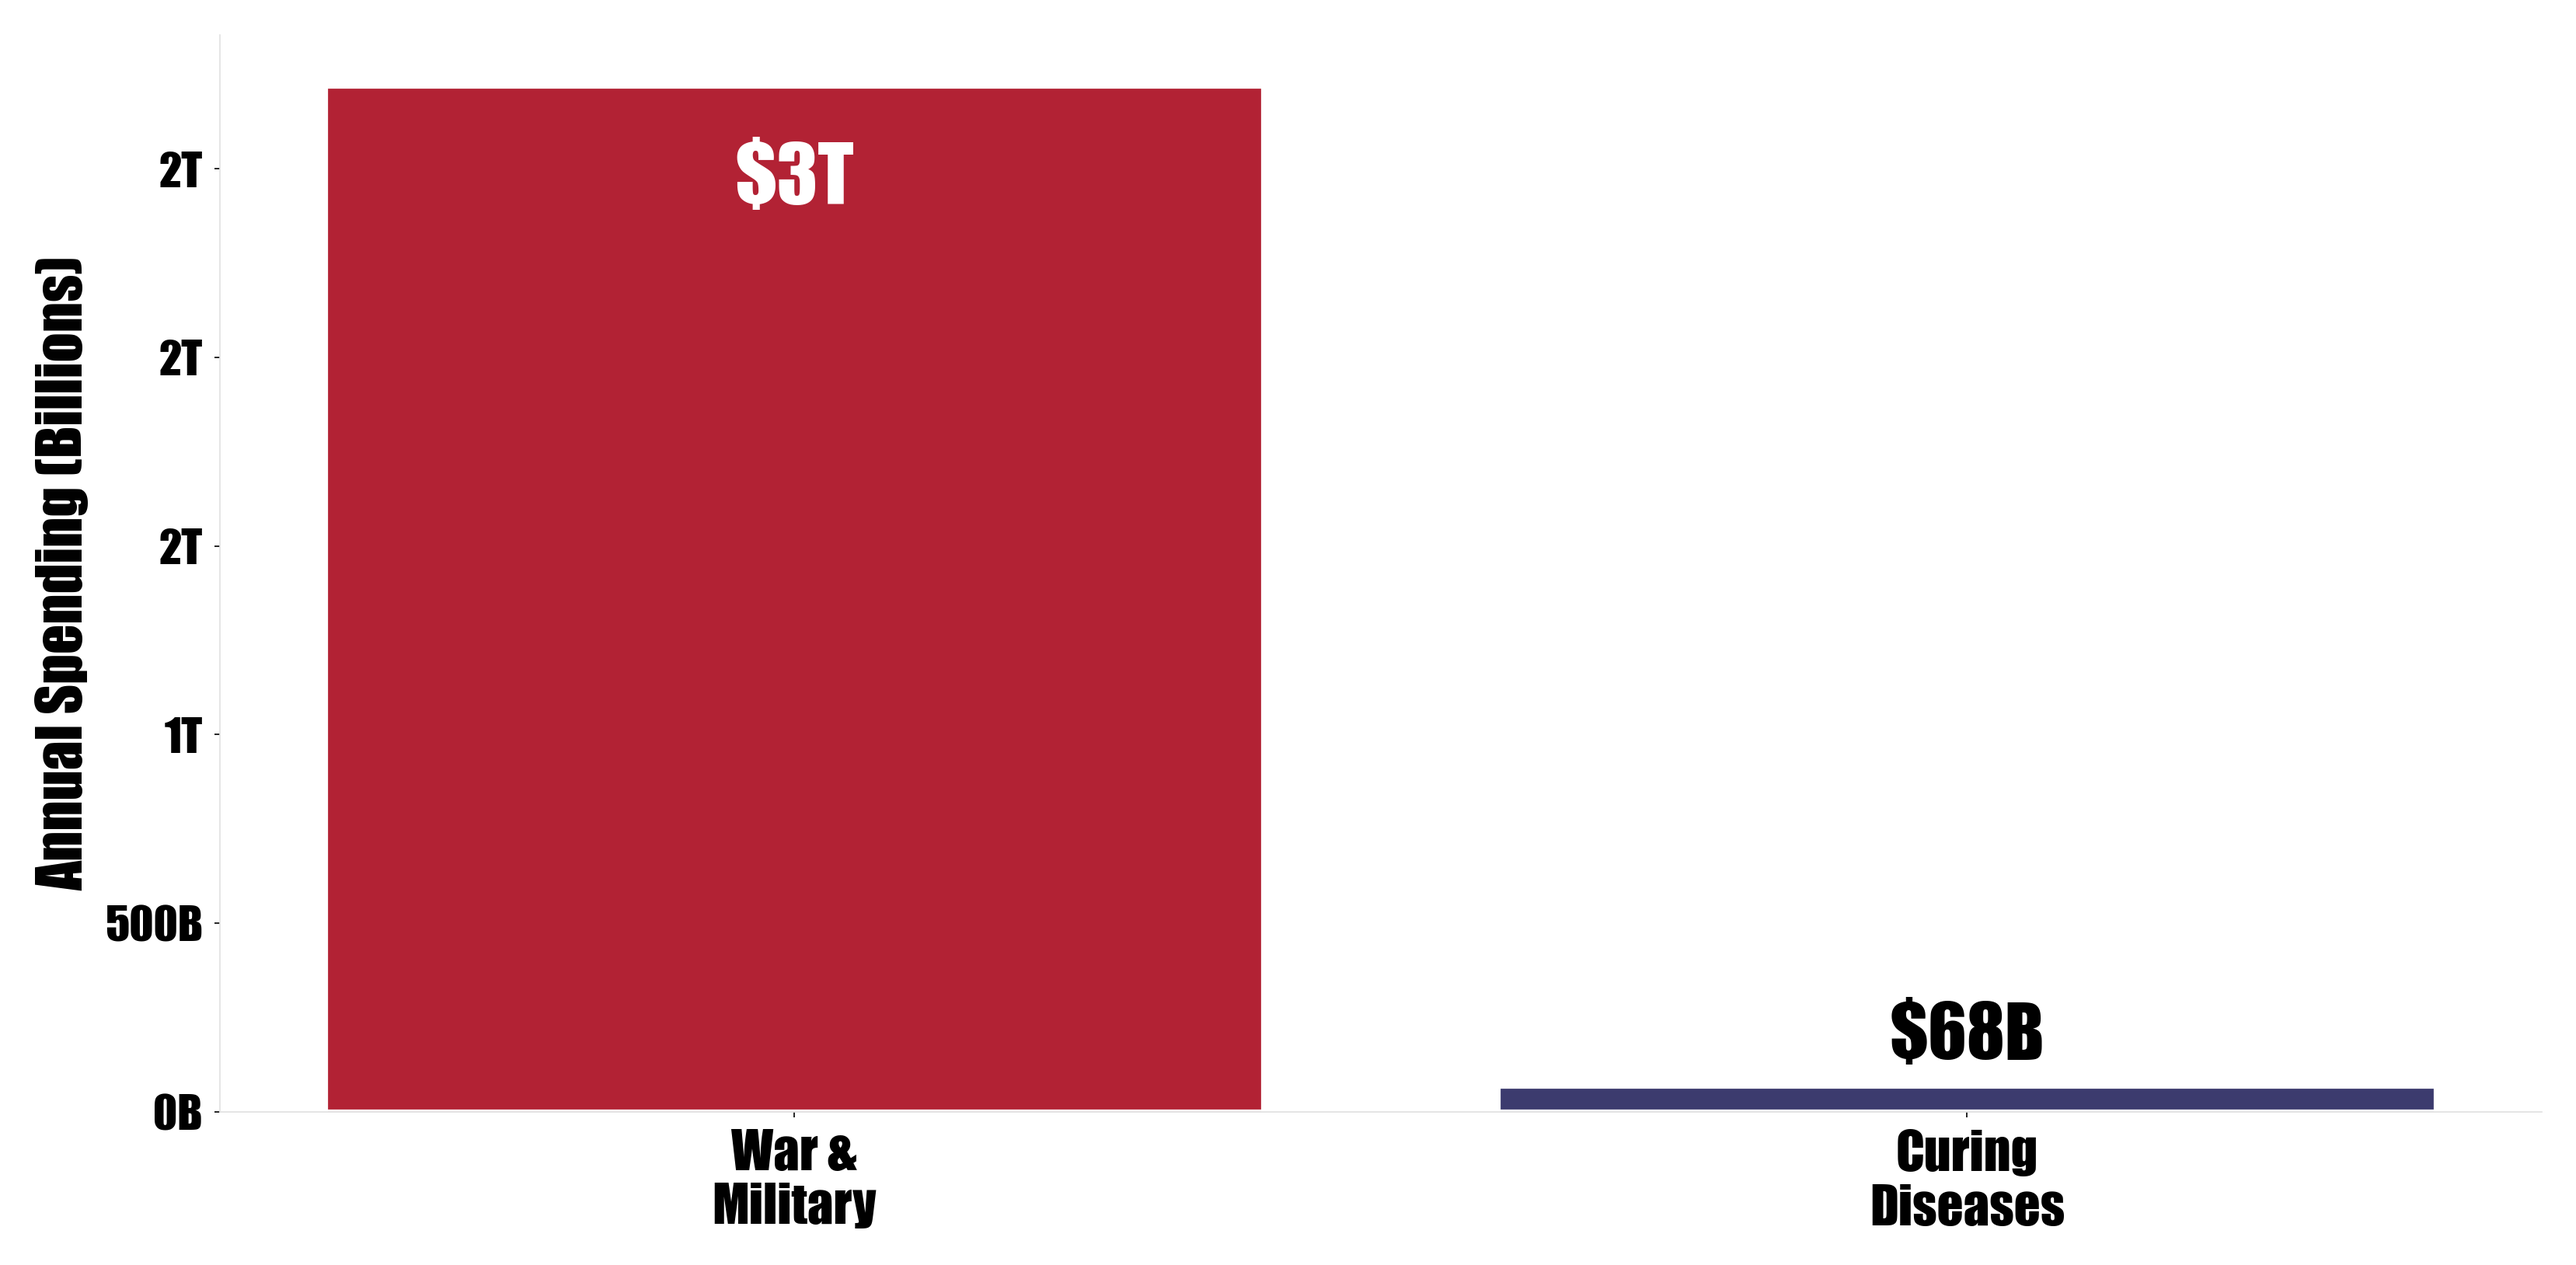
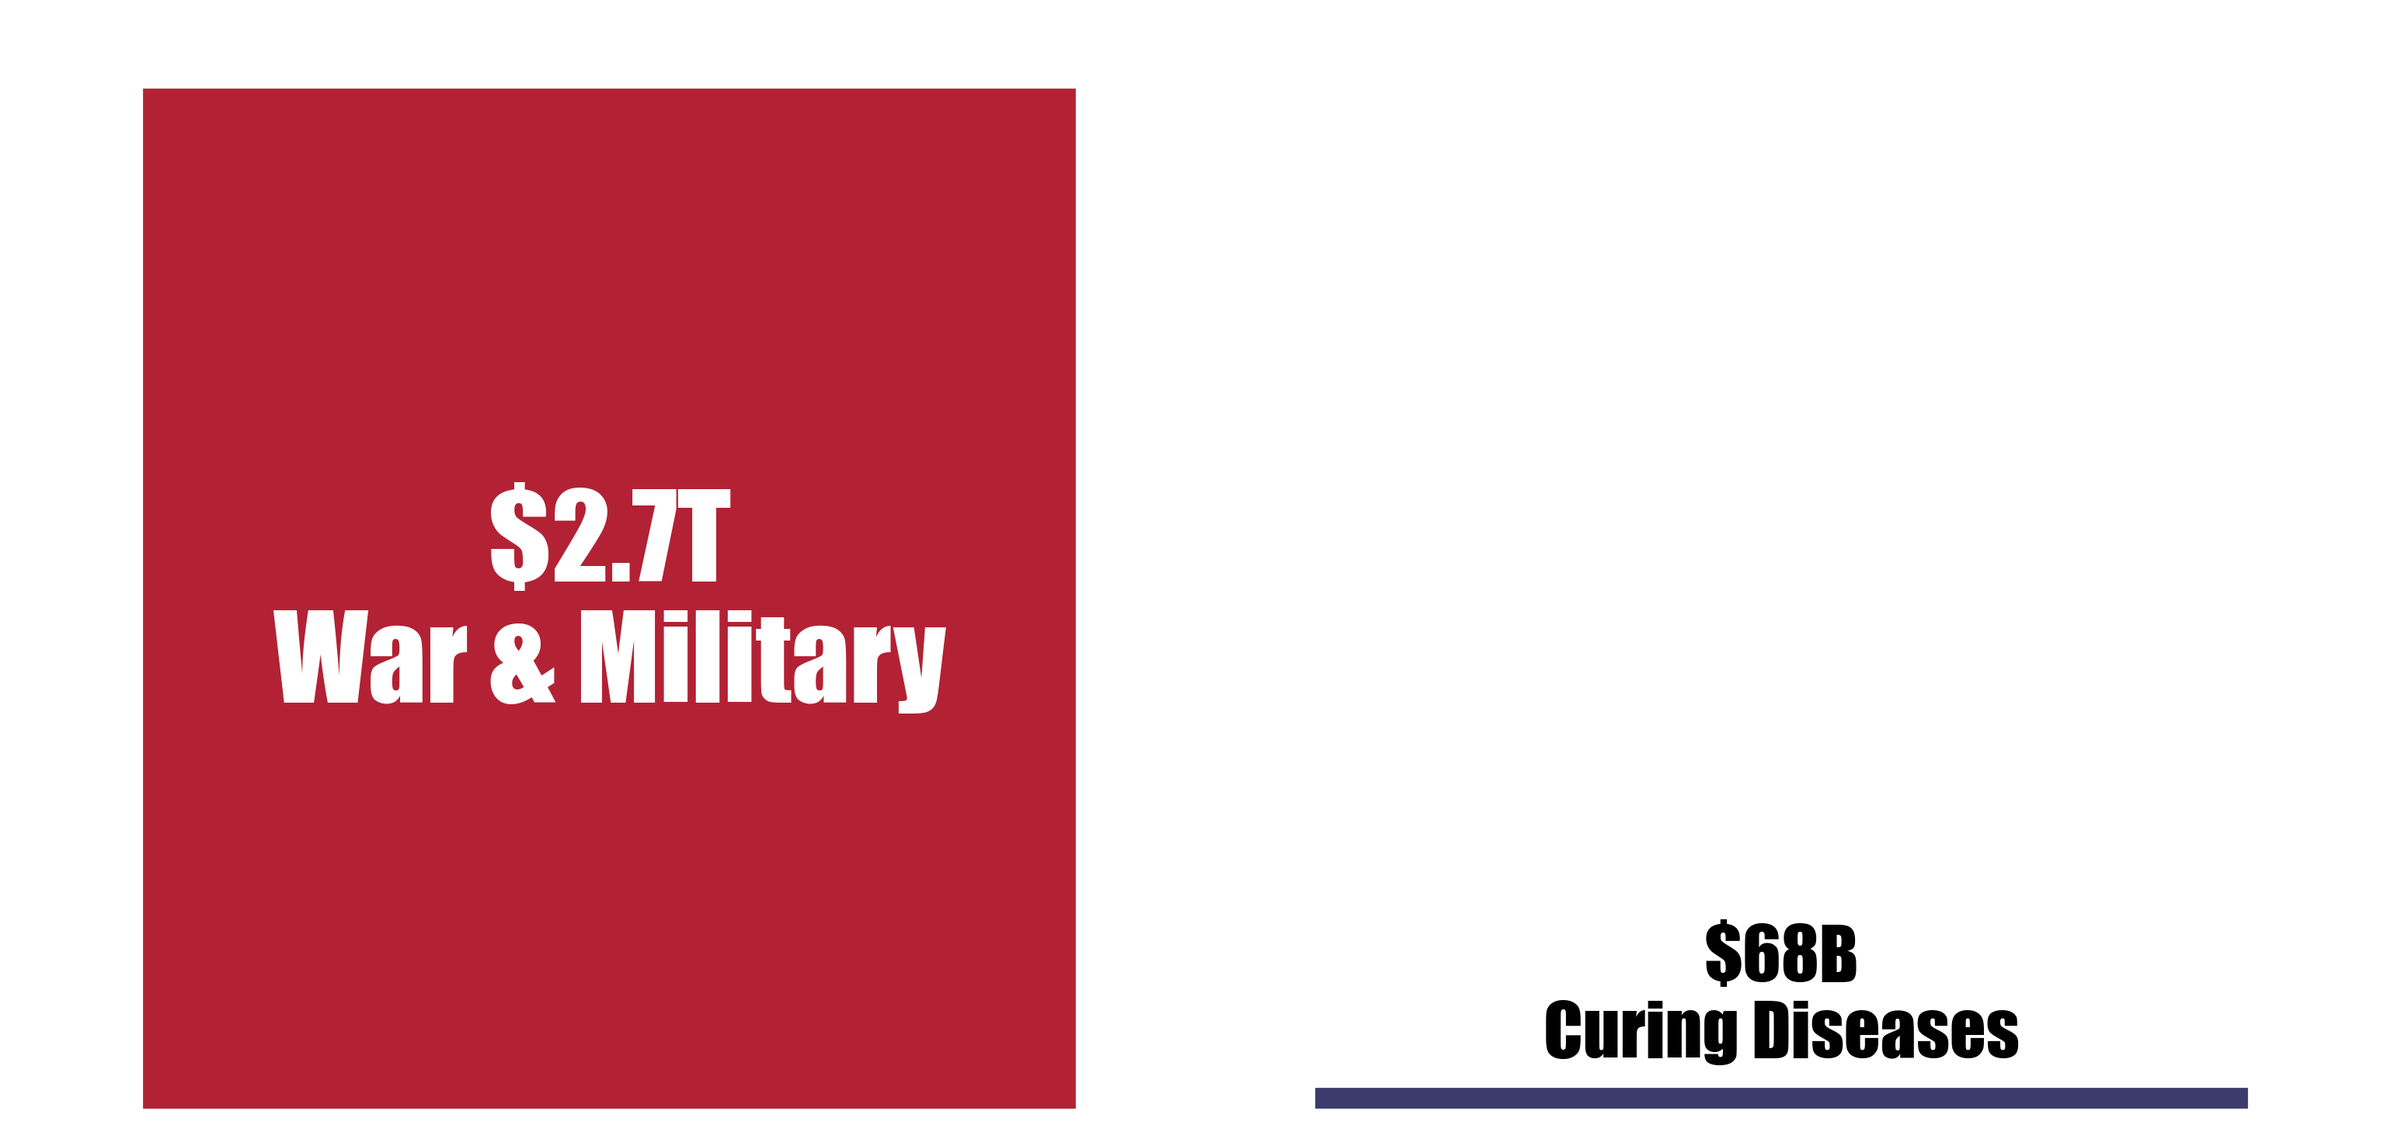
Refactor war-hidden-direct-curing-diseases chart for minimalist design
- Removed all axis labels and ticks to enhance clarity, as all columns are labeled with amounts.
- Cleaned up spines by removing all borders for a more streamlined appearance.
- Set y-axis limits to ensure full visibility of data representation, aligning with minimalist design principles.

Changed region(s): [[0.0, 0.0623, 0.499, 0.9661], [0.5302, 0.7791, 0.9669, 0.9661]]

diff --git a/DESIGN_GUIDE.md b/DESIGN_GUIDE.md
@@ -147,9 +147,18 @@ These margins are automatically set by `setup_chart_style()` but can be adjusted
 **Label Placement (Tufte-approved):**
 - Put labels directly ON the data (on bars, lines, points)
 - Format: `"$7T\nIndirect War Costs"` (value + description with line break)
+- **Large bars:** Label inside (white text on colored bars)
+- **Small bars:** Label above (black text, positioned just above the bar)
 - Remove redundant x-axis labels when data is self-labeled
 - Remove y-axis entirely on column charts when all columns show their amounts
 - This eliminates matching numbers to separate axis labels
+
+**Typography Size (Neobrutalist approach):**
+- **Make text as large as reasonably possible** - Bold, commanding, impossible to miss
+- Bar labels: 44-72pt (depending on available space)
+- Numbers should dominate the visual hierarchy
+- If text feels too small, it probably is - go bigger
+- Think propaganda posters, not academic papers
 
 **What to Remove:**
 - Gridlines (unless absolutely necessary, then use sparingly)
